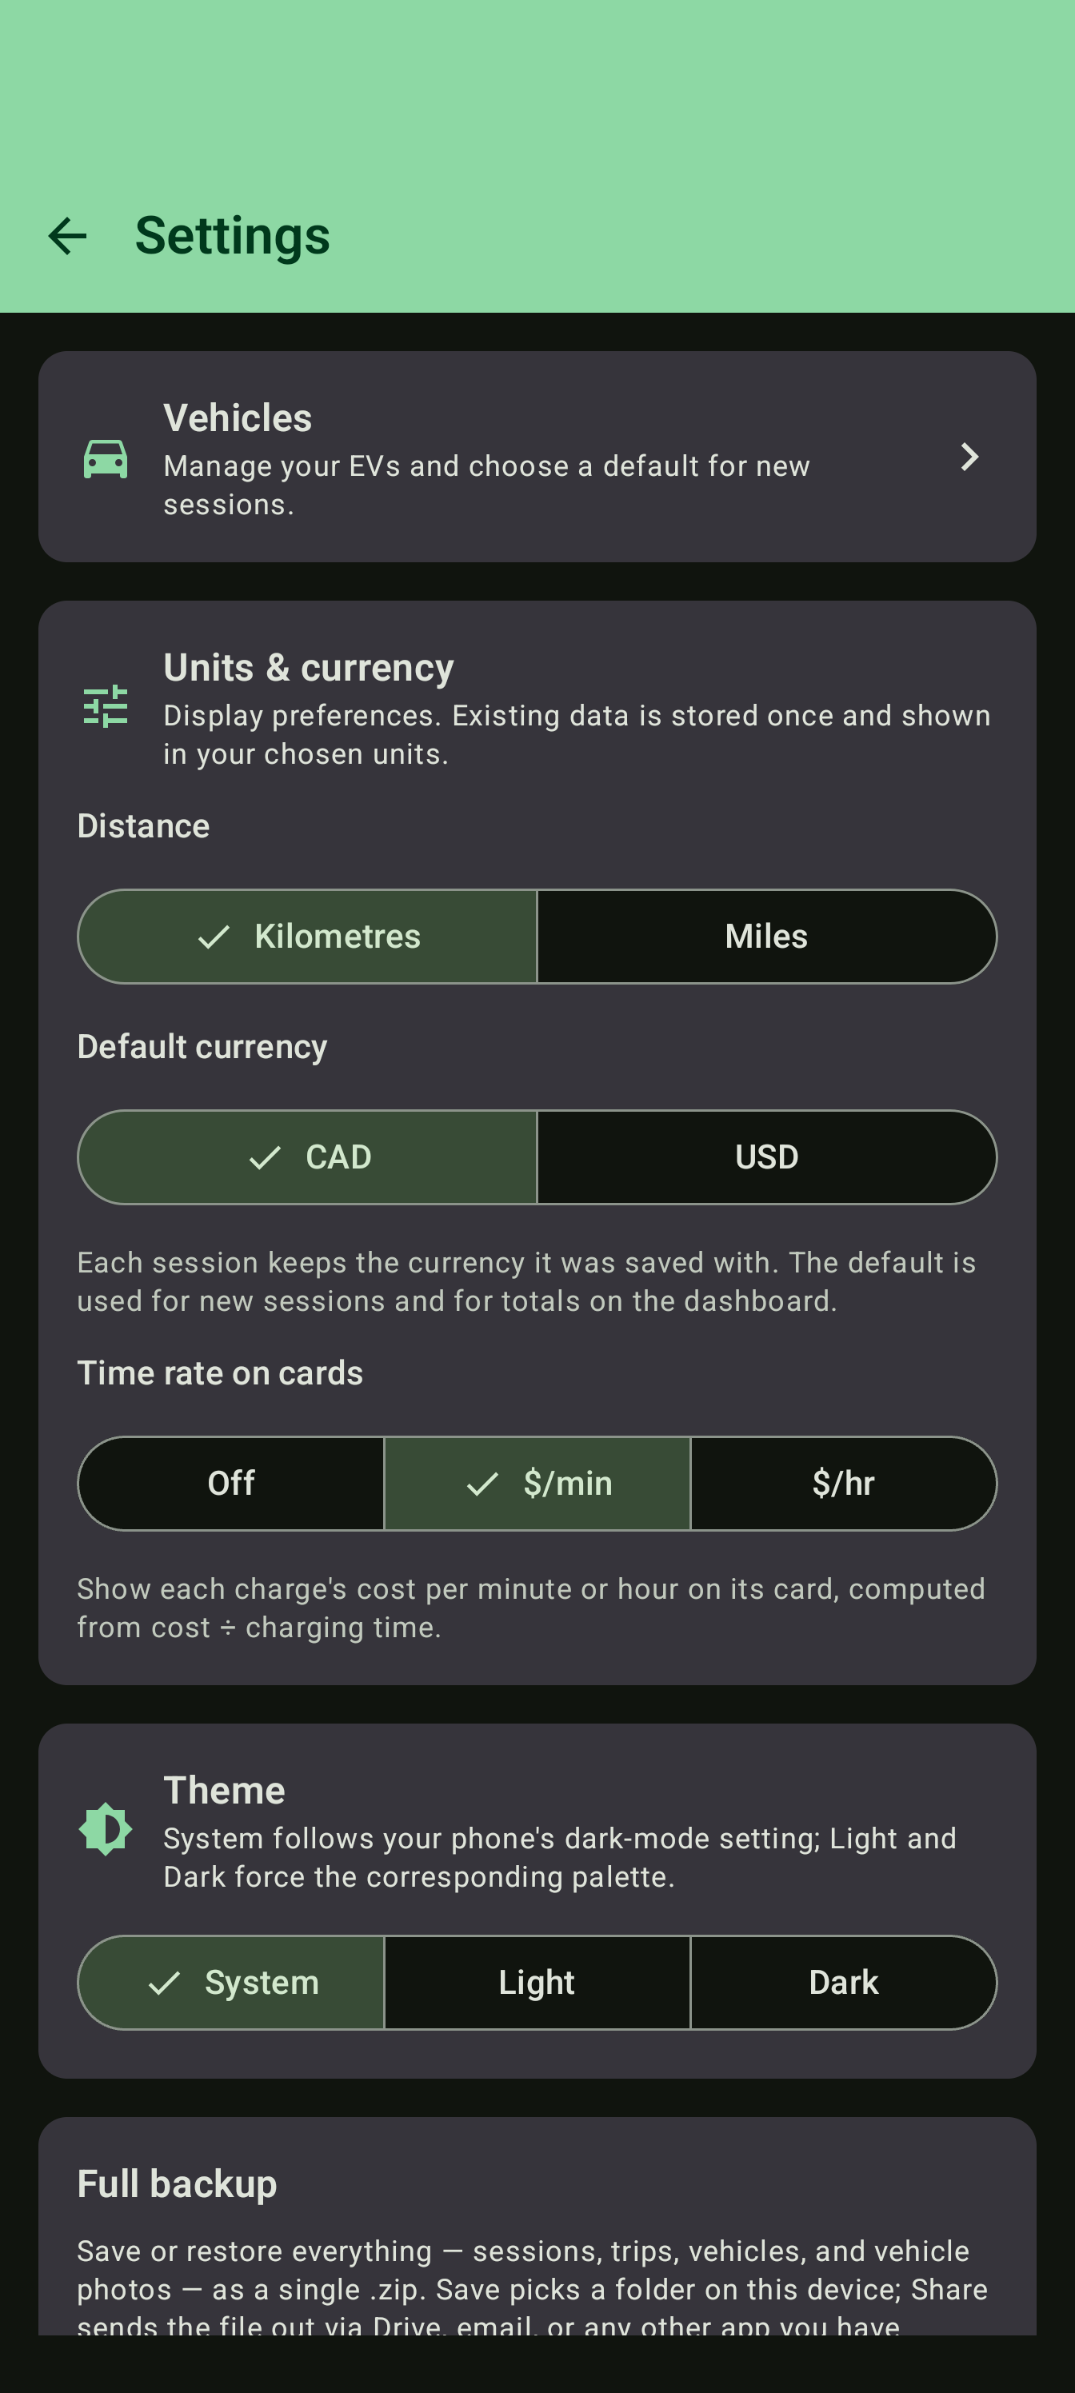
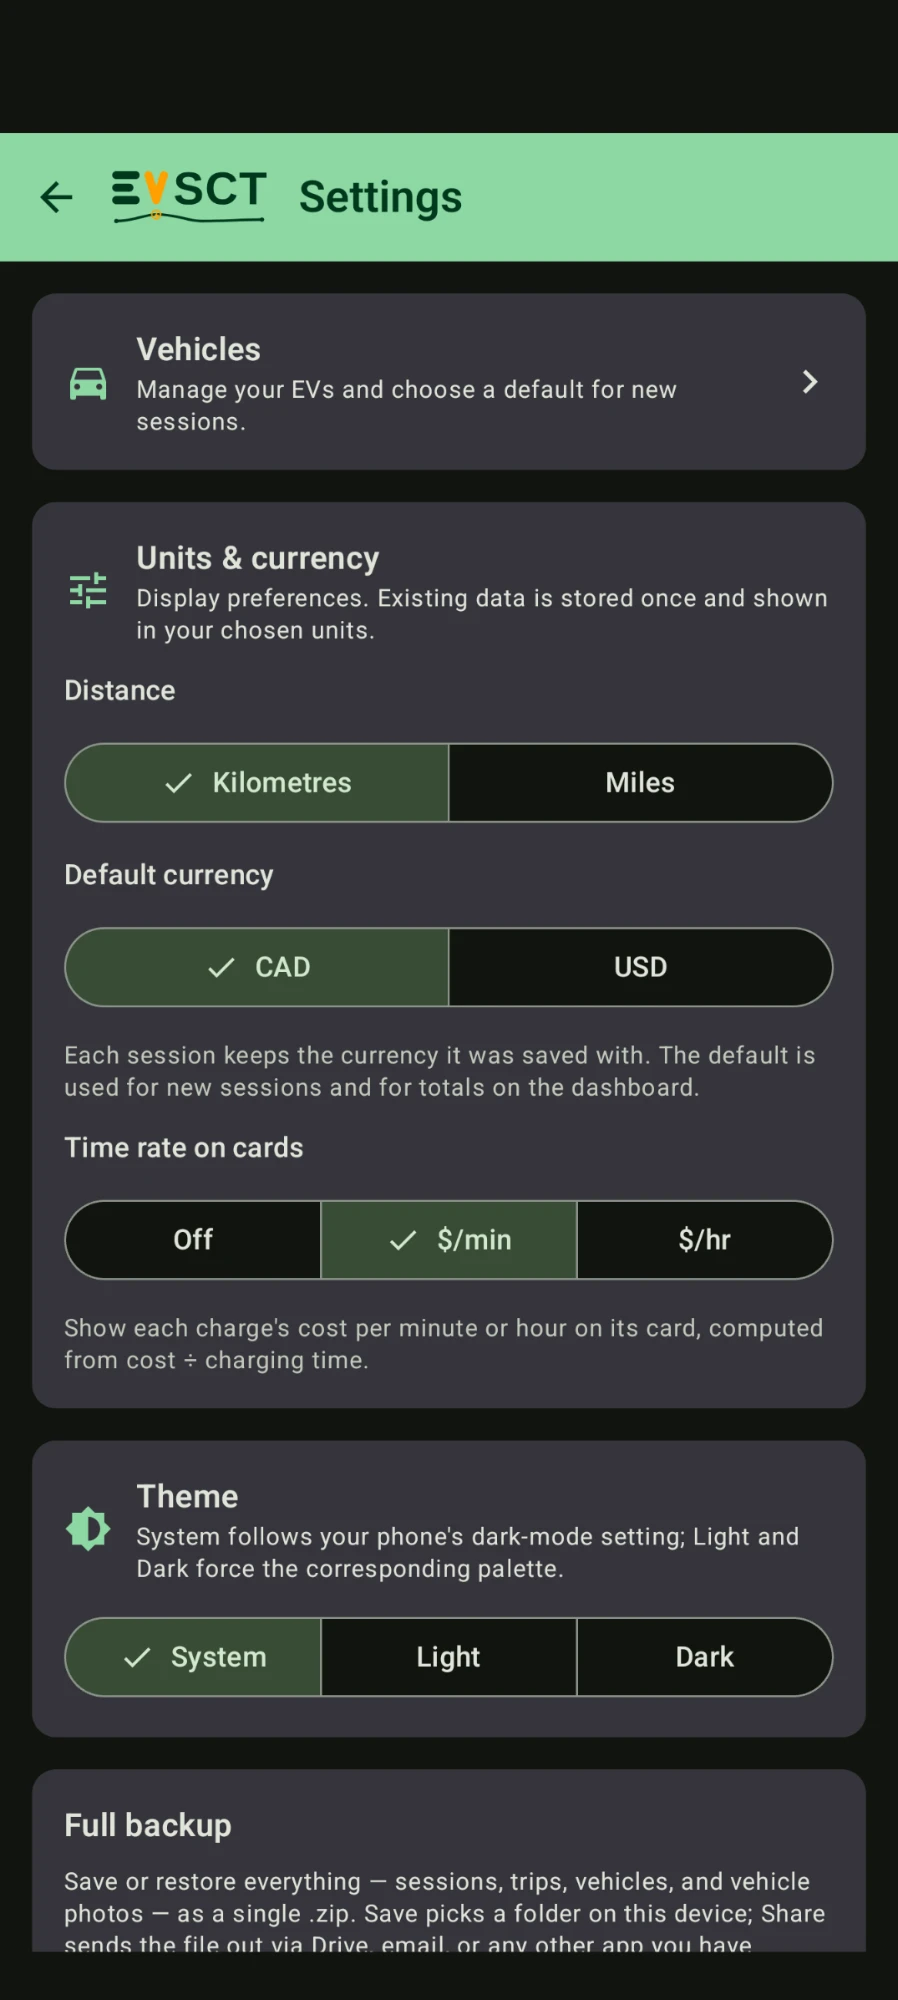
Refresh app screenshots with post-Phase-7 captures
Replace all screenshots except the Add/edit session pair (that screen
is unchanged) and drop the out-of-date warning from the README.

Claude-Session: https://claude.ai/code/session_01DHfNpx1mGpu7p4Rj9t8bHL

Changed region(s): [[0.0, 0.0, 1.0, 0.124]]

diff --git a/README.md b/README.md
@@ -14,10 +14,6 @@ you hit Export. Built with Kotlin + Jetpack Compose + Room + Hilt.
 
 ## Screenshots
 
-> **⚠ Note:** These screenshots are out of date — they predate the Phase 5–7
-> UI changes (the reworked Stats screen, map view, trips, and charging log,
-> among others) and will be refreshed with new captures soon.
-
 _Shown in dark mode — EVSCT also ships a hand-tuned light theme (see [Theming](#theming))._
 
 <!--
